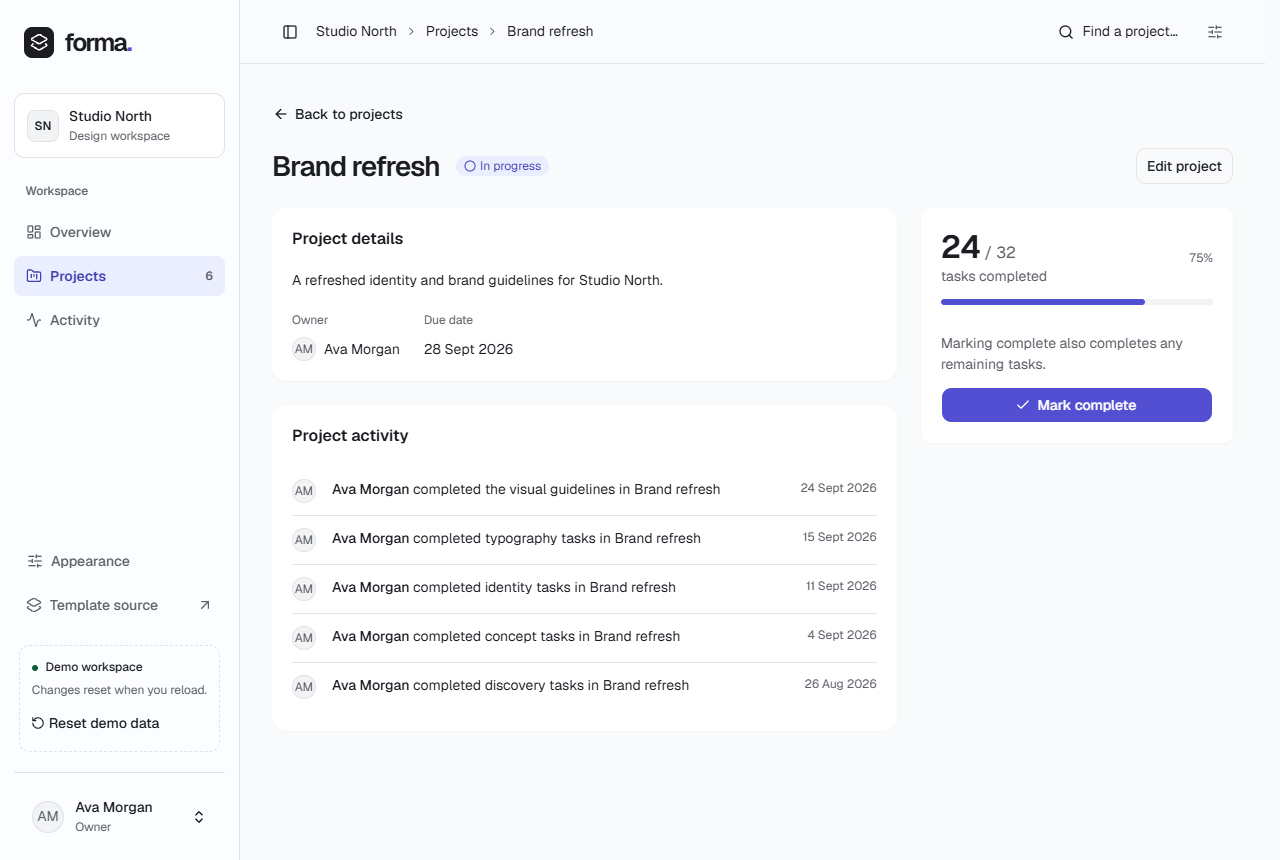
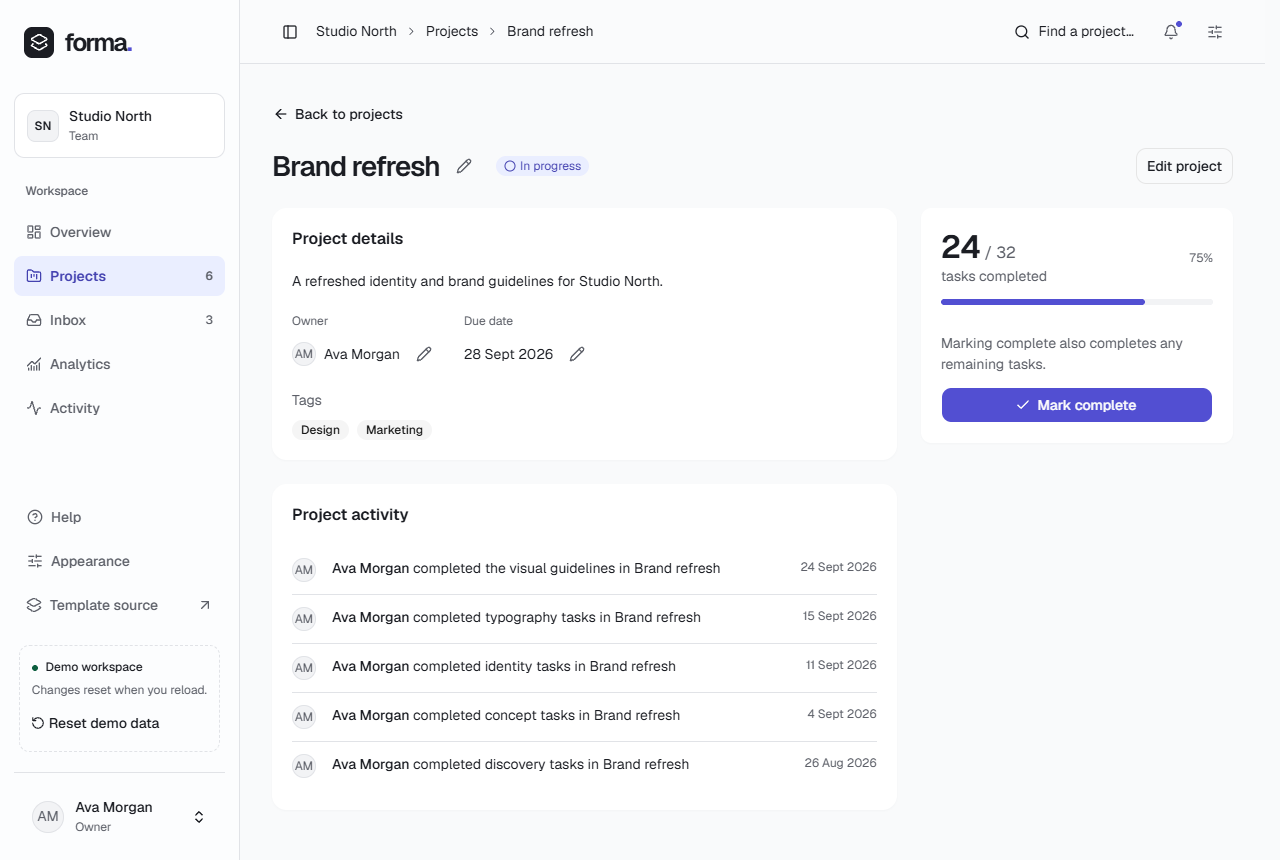
Refresh product screenshots and add a capture script
Recapture the overview, board and project screenshots used by the
public home, Product page, articles and README; the previous captures
predated Inbox, Analytics, Help, tags and inline editing. Add
tools/capture-screenshots.mjs so later UI changes can refresh them at
the same 1280x860 framing, default appearance and fresh demo data. The
README now uses the shared overview image instead of a duplicate.

diff --git a/CONTRIBUTING.md b/CONTRIBUTING.md
@@ -33,6 +33,8 @@ npm run format:check
 
 For visual or interaction changes, check the affected pages at a wide and a narrow width, in light and dark appearance and both densities where they matter. For refactors that should not change appearance, the [style snapshot](tools/verification/README.md#style-snapshot) compares computed styles before and after.
 
+If a change visibly alters the workspace, refresh the product screenshots used by the public pages and README with `node tools/capture-screenshots.mjs` while the dev server runs.
+
 Describe the behavior you changed and the checks you ran, so a reviewer who has not followed the discussion can verify it.
 
 ## License

diff --git a/README.md b/README.md
@@ -2,7 +2,7 @@
 
 A reusable [shadcn/ui](https://ui.shadcn.com) kit for public websites and admin interfaces, with centralized design tokens, content-free shells and a complete reference demo that shows every pattern working in context.
 
-![Forma demo workspace overview](docs/images/overview.png)
+![Forma demo workspace overview](public/images/forma-overview.png)
 
 The repository has two parts:
 
